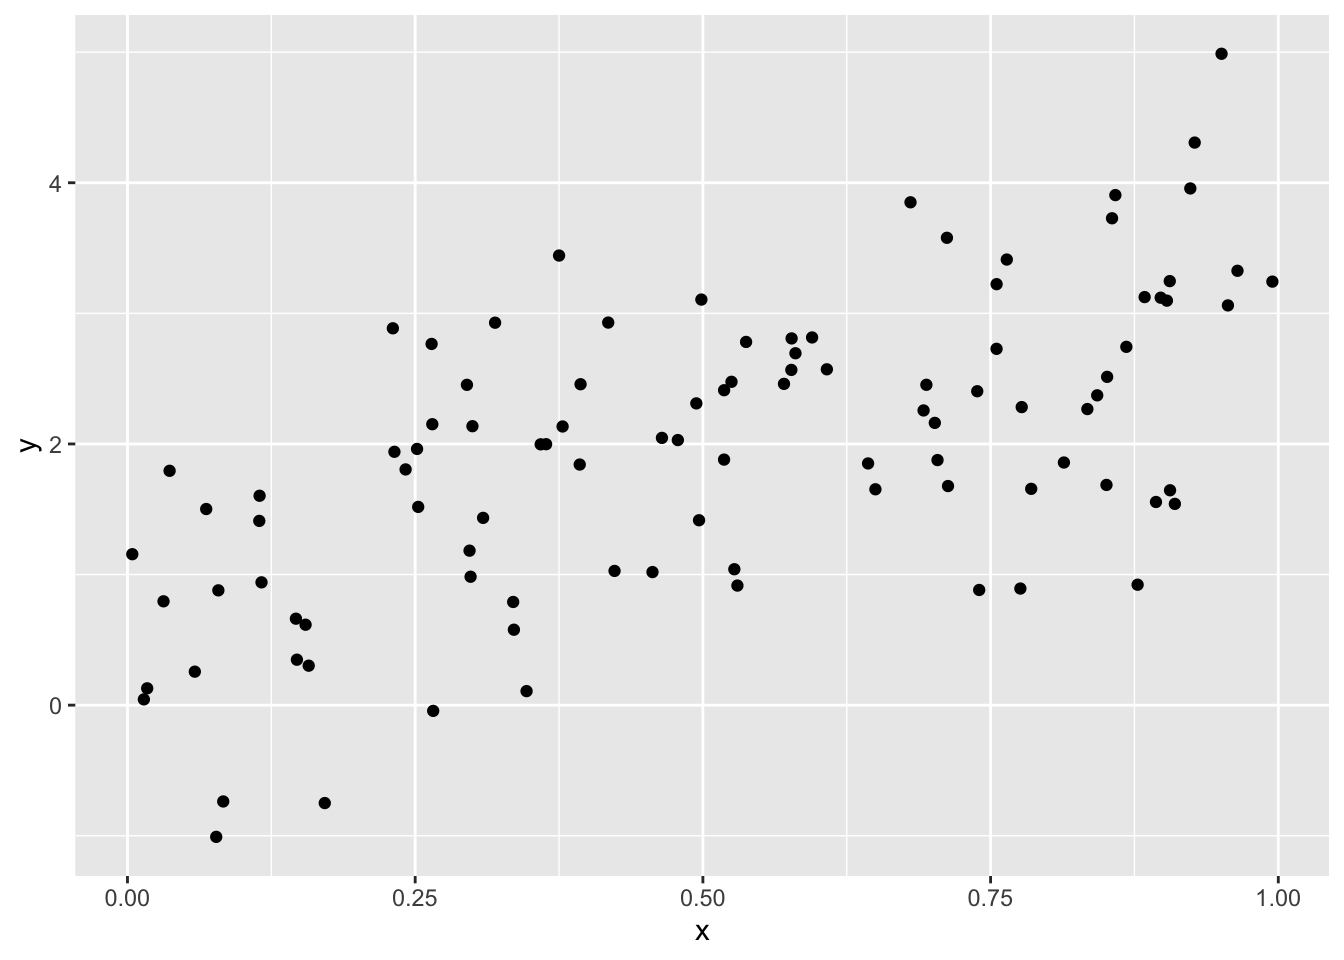
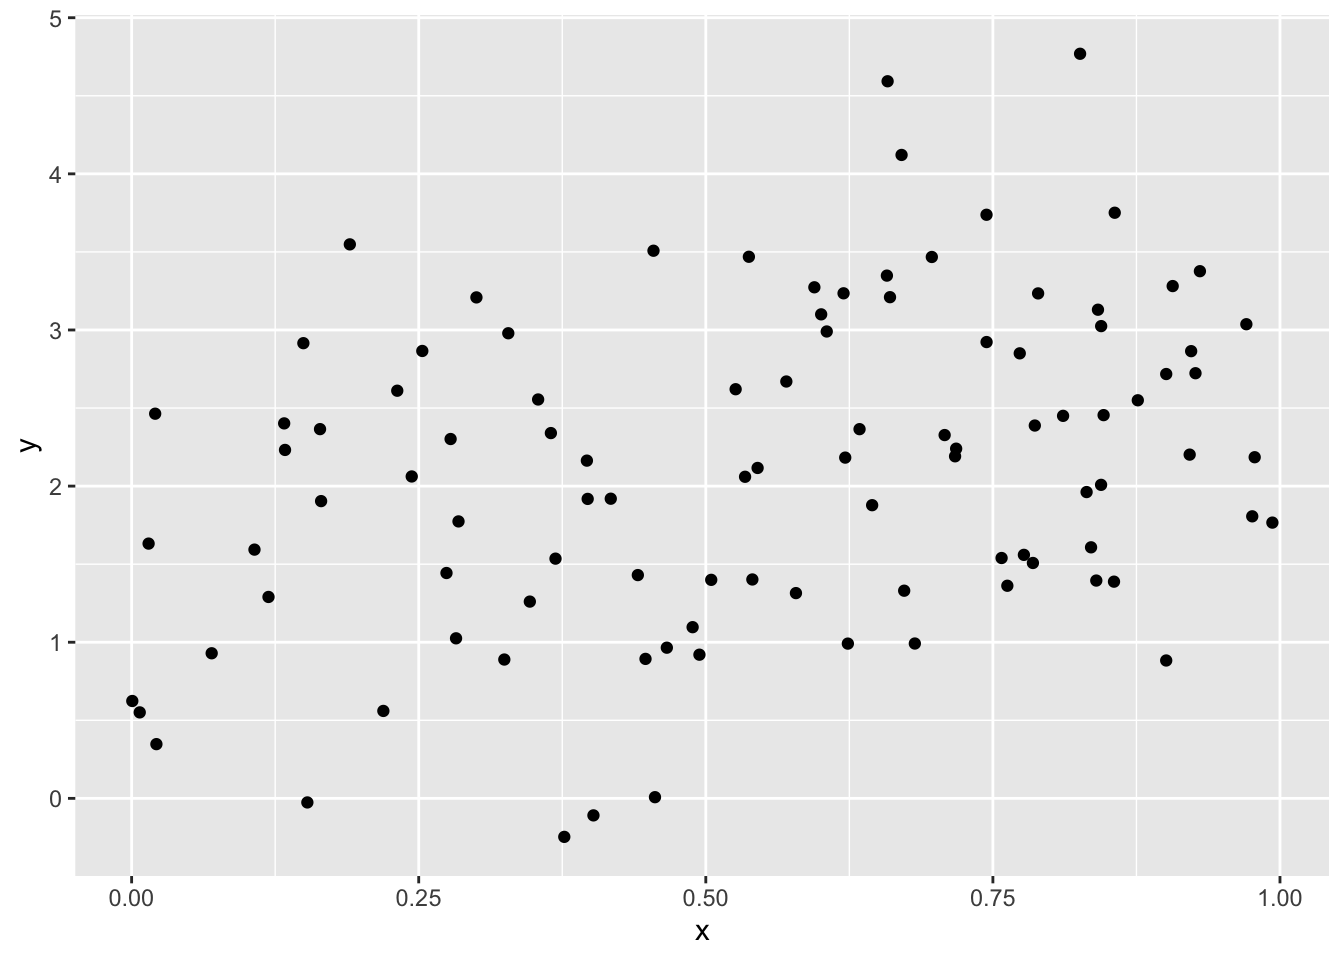
adding project page

diff --git a/projects.html b/projects.html
@@ -11,7 +11,7 @@
 
 
 
-<title>My awesome website</title>
+<title>Projects</title>
 
 <script src="site_libs/header-attrs-2.25/header-attrs.js"></script>
 <script src="site_libs/jquery-3.6.0/jquery-3.6.0.min.js"></script>
@@ -350,32 +350,13 @@ div.tocify {
 
 
 
-<h1 class="title toc-ignore">My awesome website</h1>
+<h1 class="title toc-ignore">Projects</h1>
 
 </div>
 
 
-<div id="this-is-yingtings-awesome-website" class="section level1">
-<h1>This is Yingting’s awesome website</h1>
-<p>Here’s a git of elmo</p>
-<p><img
-src="https://media.giphy.com/media/drXGoW1iudhKw/giphy.gif" /></p>
-</div>
-<div id="here-s-a-new-session" class="section level1">
-<h1>HERE’ S A NEW SESSION</h1>
-<p>My dog is Cappu. This is Cappu:</p>
-<p><img src="images/cappu.jpeg" /></p>
-<p>Also here’s the “backstage” are in Alumi</p>
-<p>you can add text</p>
-<ul>
-<li>and lists</li>
-<li>with extra bullets</li>
-</ul>
-<p>You can <em>FORMAT</em> and <strong>bold</strong></p>
-<p>This is a <a href="https://www.google.com/">link</a> to a good data
-science tool. Here is a link to <a href="https://p8105.com/">p8105</a>.
-Here’s a link to the <a href="about.html">about</a> page</p>
-<p>You can also still use R!</p>
+<div id="here-is-a-nice-project" class="section level1">
+<h1>Here is a nice project:</h1>
 <pre class="r"><code>library(tidyverse)</code></pre>
 <pre><code>## ── Attaching core tidyverse packages ──────────────────────── tidyverse 2.0.0 ──
 ## ✔ dplyr     1.1.3     ✔ readr     2.1.4
@@ -395,7 +376,7 @@ Here’s a link to the <a href="about.html">about</a> page</p>
 
 plot_df |&gt; 
   ggplot(aes(x = x, y = y))+geom_point()</code></pre>
-<p><img src="index_files/figure-html/unnamed-chunk-1-1.png" width="672" /></p>
+<p><img src="projects_files/figure-html/unnamed-chunk-1-1.png" width="672" /></p>
 </div>
 
 
